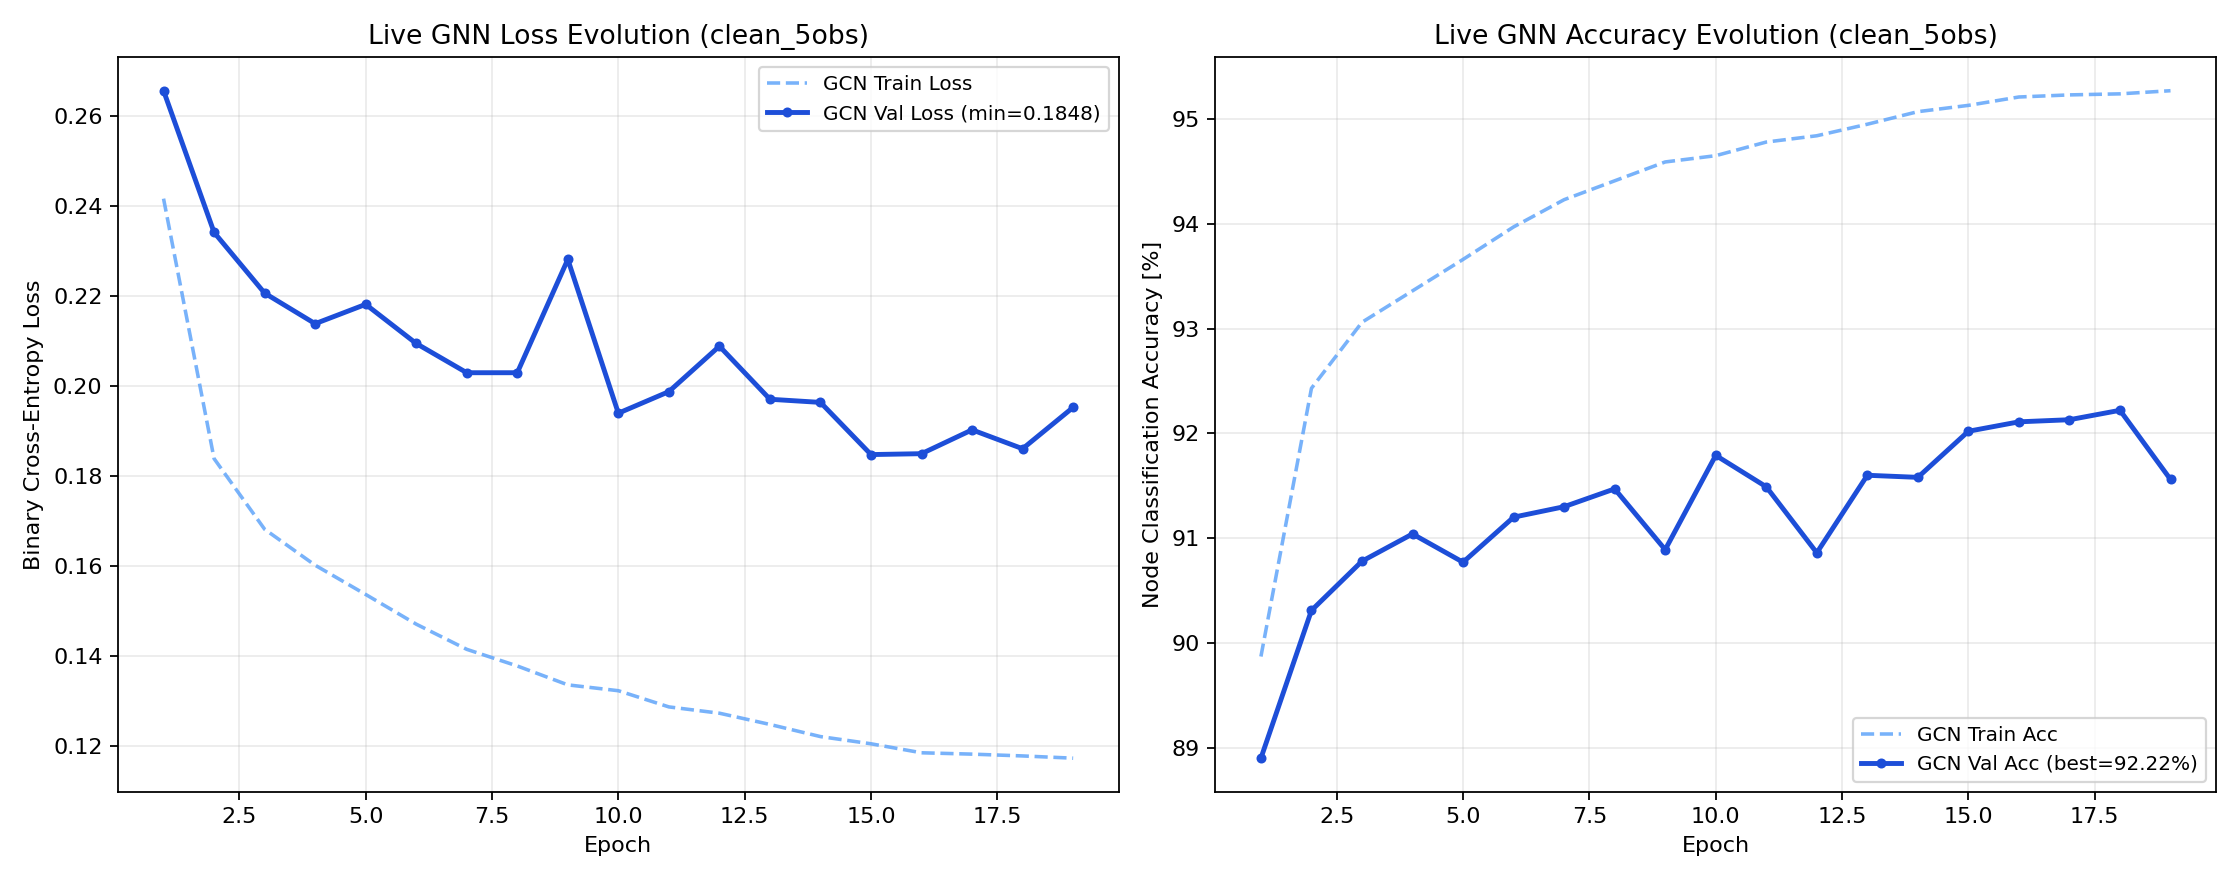
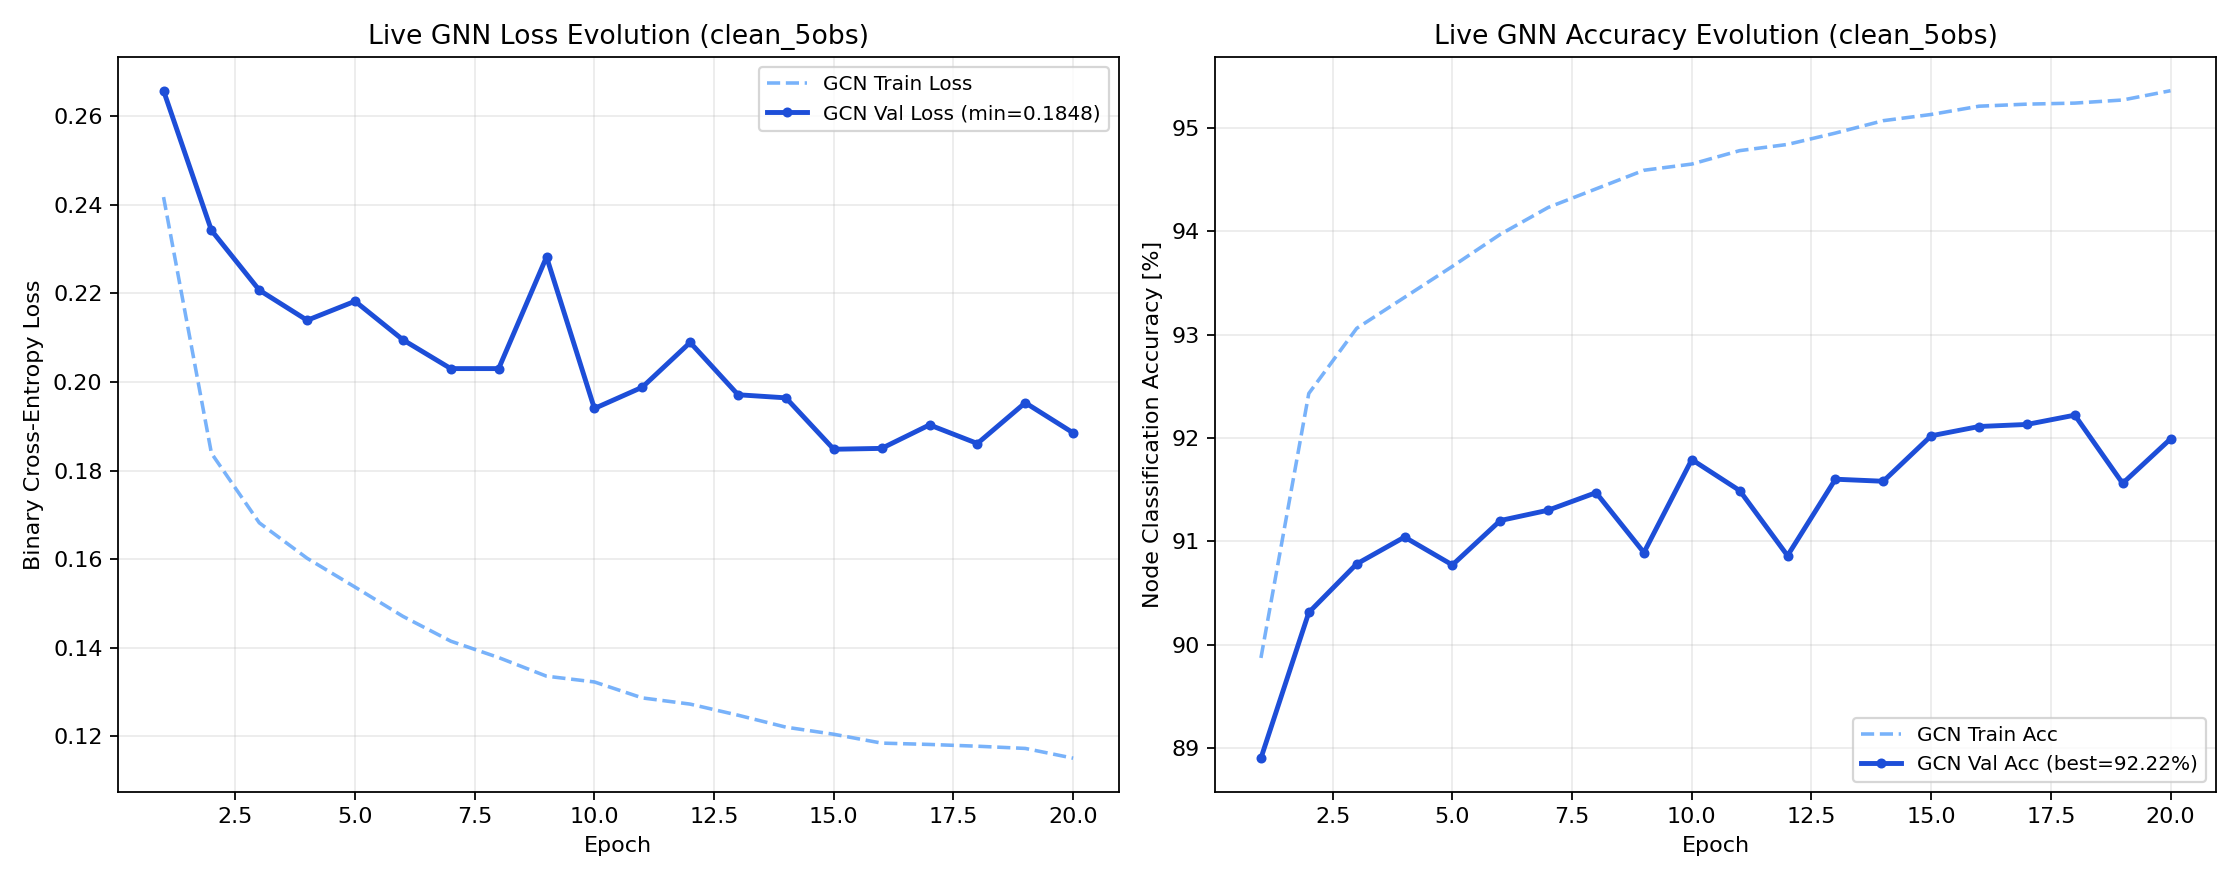
Update Study 2 live status and figures (2026-11-09 08:23)

diff --git a/LIVE_STATUS.md b/LIVE_STATUS.md
@@ -1,25 +1,25 @@
 # Live Pipeline Status on Jed
 
 ```text
-[2026-11-09 08:18:20] Study 2 Pipeline Status on Jed
+[2026-11-09 08:23:50] Study 2 Pipeline Status on Jed
 - Step 1 (Plummer ICs): 81 / 81 ready
 - Step 2 (SWIFT Runs): 81 / 81 completed (101 snapshots)
 - Step 3 (Observables): Labels=81/81 | Clean=81/81 | GaiaNoisy=81/81
 - Step 4 (5D Graphs): Clean=81/81 | GaiaNoisy=81/81
 - Step 5/6 Live GNN Training Progress:
-  * clean_5obs/training_metrics_gcn_clean.log: Ep 019 | Train 0.1173 (95.27%) | Val 0.1953 (91.56%, Best=92.22%) | Test=In progress
+  * clean_5obs/training_metrics_gcn_clean.log: Ep 020 | Train 0.1151 (95.36%) | Val 0.1885 (91.99%, Best=92.22%) | Test=In progress
 
 SLURM Queue:
 JOBID  PARTITION                   NAME   ST       TIME  NODES NODELIST(REASON)
 40998767_[0-4%   academic      Study2_Step6_4Obs   PD       0:00      2 (Dependency)
-      40998766   academic   Study2_Step5_Train81    R   15:48:15      2 jst[072,076]
+      40998766   academic   Study2_Step5_Train81    R   15:53:41      2 jst[072,076]
 ```
 
 ## Live Neural Network Training Metrics
 
 | Experiment | Architecture | Latest Epoch | Train Loss | Train Acc | Val Loss | Val Acc | Best Val Acc | Test Acc | Test F1 |
 | :--- | :---: | :---: | :---: | :---: | :---: | :---: | :---: | :---: | :---: |
-| `clean_5obs` | **GCN** | 19 | 0.1173 | 95.27% | 0.1953 | 91.56% | **92.22%** | **In progress** | - |
+| `clean_5obs` | **GCN** | 20 | 0.1151 | 95.36% | 0.1885 | 91.99% | **92.22%** | **In progress** | - |
 
 ## Real-Time GNN Learning Curves (Loss & Accuracy Evolution)
 
